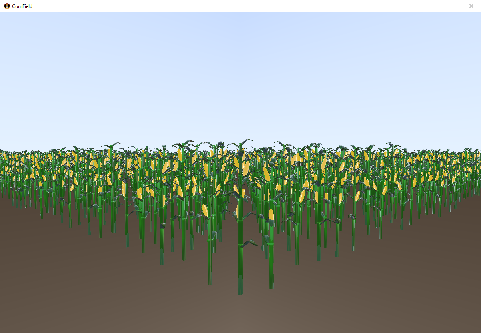
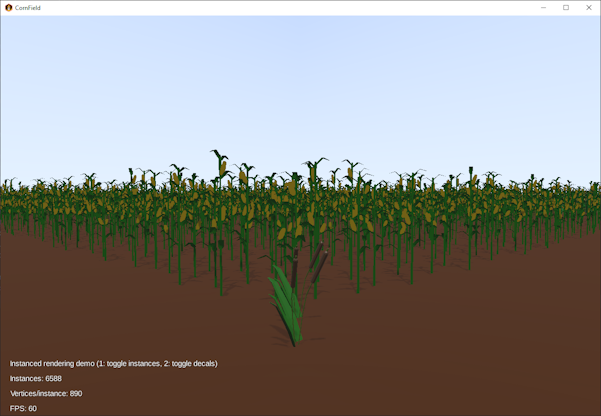
now with shadows

diff --git a/core/src/main/java/com/monstrous/cornfield/Main.java b/core/src/main/java/com/monstrous/cornfield/Main.java
@@ -5,12 +5,7 @@ import com.badlogic.gdx.graphics.*;
 import com.badlogic.gdx.graphics.g2d.BitmapFont;
 import com.badlogic.gdx.graphics.g2d.SpriteBatch;
 import com.badlogic.gdx.graphics.g2d.TextureRegion;
-import com.badlogic.gdx.graphics.g3d.Attribute;
-import com.badlogic.gdx.graphics.g3d.ModelBatch;
 import com.badlogic.gdx.graphics.g3d.ModelInstance;
-import com.badlogic.gdx.graphics.g3d.Renderable;
-import com.badlogic.gdx.graphics.g3d.attributes.ColorAttribute;
-import com.badlogic.gdx.graphics.g3d.attributes.IntAttribute;
 import com.badlogic.gdx.graphics.g3d.decals.CameraGroupStrategy;
 import com.badlogic.gdx.graphics.g3d.decals.Decal;
 import com.badlogic.gdx.graphics.g3d.decals.DecalBatch;
@@ -34,7 +29,6 @@ import net.mgsx.gltf.scene3d.scene.Scene;
 import net.mgsx.gltf.scene3d.scene.SceneAsset;
 import net.mgsx.gltf.scene3d.scene.SceneManager;
 import net.mgsx.gltf.scene3d.scene.SceneSkybox;
-import net.mgsx.gltf.scene3d.shaders.PBRDepthShaderProvider;
 import net.mgsx.gltf.scene3d.utils.IBLBuilder;
 
 
@@ -52,7 +46,7 @@ public class Main extends ApplicationAdapter {
     private static final float SEPARATION_DISTANCE = 1.0f;          // min distance between instances
     private static final float AREA_LENGTH = 100.0f;                // size of the (square) field
 
-    private static final int SHADOW_MAP_SIZE = 2048;
+    private static final int SHADOW_MAP_SIZE = 4096;
 
 
     private SceneManager sceneManager;
@@ -85,13 +79,10 @@ public class Main extends ApplicationAdapter {
             throw new GdxRuntimeException("GLES 3.0 profile required for this programme.");
         }
         font = new BitmapFont();
-        Gdx.app.log("font own texture", ""+font.ownsTexture());
         font.setOwnsTexture(false);
-        Gdx.app.log("font own texture", ""+font.ownsTexture());
         batch = new SpriteBatch();
 
         billboard = new Texture(Gdx.files.internal("images/cornstalk-billboard.png") );
-
 
 
         // setup camera
@@ -103,8 +94,8 @@ public class Main extends ApplicationAdapter {
         camera.update();
 
         // create scene manager
-        // but use our own shader provider
-        sceneManager = new SceneManager( new MyPBRShaderProvider(), new PBRDepthShaderProvider(new DepthShader.Config()) );
+        // but use our own shader providers
+        sceneManager = new SceneManager( new MyPBRShaderProvider(), new MyPBRDepthShaderProvider(new DepthShader.Config()) );
         sceneManager.setCamera(camera);
 
 
@@ -167,7 +158,6 @@ public class Main extends ApplicationAdapter {
             Gdx.app.error("GLTF load error: node not found", NODE_NAME);
             Gdx.app.exit();
         }
-
         sceneManager.addScene(sceneCorn);
 
         // assumes the instance has one node,  and the meshPart covers the whole mesh
@@ -188,8 +178,6 @@ public class Main extends ApplicationAdapter {
         decals = new Array<>();
         decalBatch = new DecalBatch(new CameraGroupStrategy(camera));
         generateDecals();
-
-
     }
 
 

diff --git a/core/src/main/java/com/monstrous/cornfield/MyPBRDepthShaderProvider.java b/core/src/main/java/com/monstrous/cornfield/MyPBRDepthShaderProvider.java
@@ -1,0 +1,30 @@
+package com.monstrous.cornfield;
+
+import com.badlogic.gdx.Gdx;
+import com.badlogic.gdx.graphics.g3d.Renderable;
+import com.badlogic.gdx.graphics.g3d.Shader;
+import com.badlogic.gdx.graphics.g3d.shaders.DepthShader;
+import net.mgsx.gltf.scene3d.shaders.*;
+
+public class MyPBRDepthShaderProvider extends PBRDepthShaderProvider {
+
+
+    public MyPBRDepthShaderProvider(DepthShader.Config config) {
+        super(config);
+    }
+
+    @Override
+    protected Shader createShader(Renderable renderable) {
+
+        PBRCommon.checkVertexAttributes(renderable);
+
+        String prefix = DepthShader.createPrefix(renderable, config) + morphTargetsPrefix(renderable);
+        if( renderable.meshPart.mesh.isInstanced()) {
+            prefix += "#define instanced\n";
+        }
+        config.vertexShader = Gdx.files.internal("shaders/pbr-instanced-depth.vs.glsl").readString();
+        return new MyPBRDepthShader(renderable, config, prefix );
+    }
+
+
+}

diff --git a/core/src/main/java/com/monstrous/cornfield/MyPBRShaderProvider.java b/core/src/main/java/com/monstrous/cornfield/MyPBRShaderProvider.java
@@ -11,18 +11,9 @@ public class MyPBRShaderProvider extends PBRShaderProvider {
         super(PBRShaderProvider.createDefaultConfig());
     }
 
-
-    /**
-     * override this method in order to provide your own PBRShader subclass.
-     * @param renderable
-     * @param config
-     * @param prefix
-     */
     @Override
     protected PBRShader createShader(Renderable renderable, PBRShaderConfig config, String prefix){
-        Gdx.app.log("createShader", renderable.meshPart.id);
         if( renderable.meshPart.mesh.isInstanced()) {
-            Gdx.app.log("renderable is instanced:", renderable.meshPart.id);
             prefix += "#define instanced\n";
         }
         config.vertexShader = Gdx.files.internal("shaders/pbr-instanced.vs.glsl").readString();

diff --git a/lwjgl3/src/main/java/com/monstrous/cornfield/lwjgl3/Lwjgl3Launcher.java b/lwjgl3/src/main/java/com/monstrous/cornfield/lwjgl3/Lwjgl3Launcher.java
@@ -19,7 +19,7 @@ public class Lwjgl3Launcher {
         Lwjgl3ApplicationConfiguration configuration = new Lwjgl3ApplicationConfiguration();
         configuration.setTitle("CornField");
         configuration.useVsync(true);
-        //configuration.setOpenGLEmulation(Lwjgl3ApplicationConfiguration.GLEmulation.GL30, 4,3);
+        configuration.setOpenGLEmulation(Lwjgl3ApplicationConfiguration.GLEmulation.GL30, 4,3);
         //// Limits FPS to the refresh rate of the currently active monitor.
         //configuration.setForegroundFPS(Lwjgl3ApplicationConfiguration.getDisplayMode().refreshRate);
         //// If you remove the above line and set Vsync to false, you can get unlimited FPS, which can be

diff --git a/core/src/main/java/com/monstrous/cornfield/MyPBRDepthShader.java b/core/src/main/java/com/monstrous/cornfield/MyPBRDepthShader.java
@@ -1,13 +1,13 @@
 package com.monstrous.cornfield;
 
 import com.badlogic.gdx.graphics.g3d.Renderable;
-import net.mgsx.gltf.scene3d.shaders.PBRShader;
+import net.mgsx.gltf.scene3d.shaders.PBRDepthShader;
 
-public class MyPBRShader extends PBRShader {
+public class MyPBRDepthShader extends PBRDepthShader {
 
     private boolean isInstancedShader;
 
-    public MyPBRShader(Renderable renderable, Config config, String prefix) {
+    public MyPBRDepthShader(Renderable renderable, Config config, String prefix) {
         super(renderable, config, prefix);
         isInstancedShader = renderable.meshPart.mesh.isInstanced();
     }
